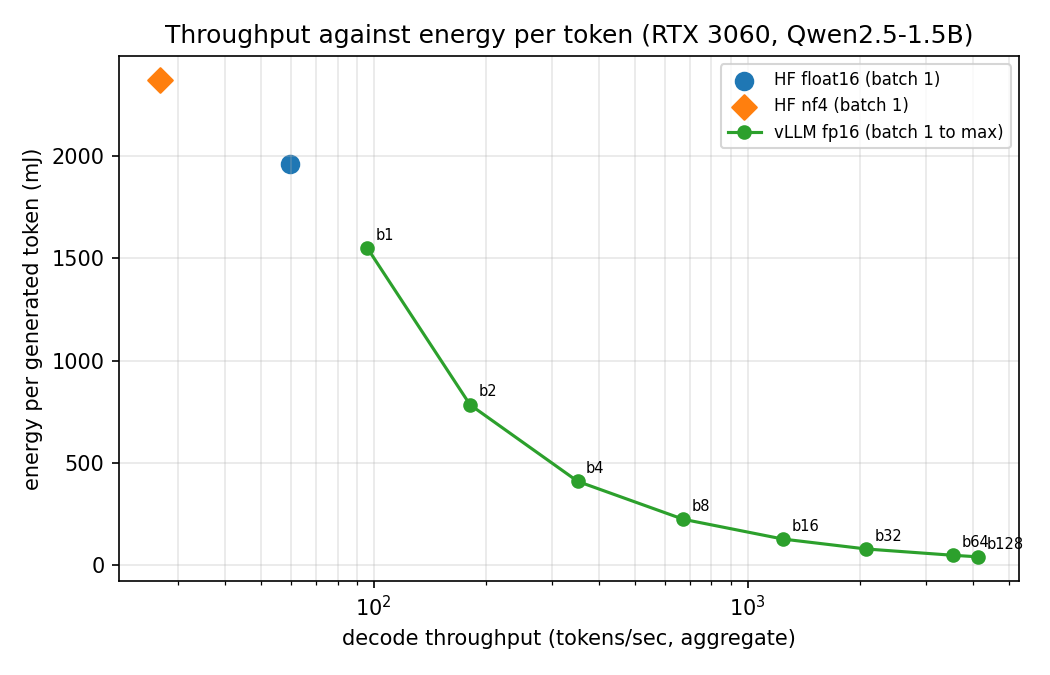
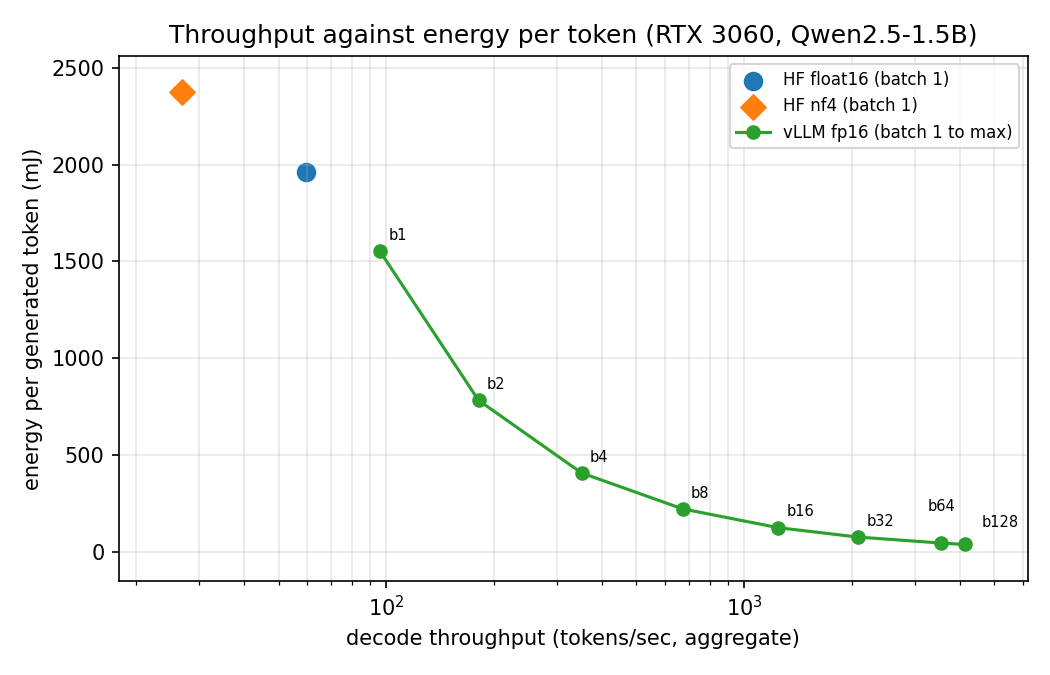
fix: separate energy plot labels

diff --git a/scripts/plot_energy.py b/scripts/plot_energy.py
@@ -83,15 +83,24 @@ def main() -> None:
         m = median_by(vl, ["batch_size"]).sort_values("batch_size")
         ax.plot(m.decode_tokens_per_sec, m.joules_per_token_gross * 1000,
                 "o-", color="C2", label="vLLM fp16 (batch 1 to max)")
+        label_offsets = {
+            64: (0, 14),
+            128: (8, 7),
+        }
         for _, row in m.iterrows():
+            batch = int(row.batch_size)
+            offset = label_offsets.get(batch, (4, 4))
             ax.annotate(f"b{int(row.batch_size)}",
                         (row.decode_tokens_per_sec,
                          row.joules_per_token_gross * 1000),
-                        textcoords="offset points", xytext=(4, 4), fontsize=7)
+                        textcoords="offset points", xytext=offset, fontsize=7,
+                        ha="center" if batch == 64 else "left",
+                        va="bottom")
     ax.set_xlabel("decode throughput (tokens/sec, aggregate)")
     ax.set_ylabel("energy per generated token (mJ)")
     ax.set_title("Throughput against energy per token (RTX 3060, Qwen2.5-1.5B)")
     ax.set_xscale("log")
+    ax.margins(x=0.08, y=0.08)
     ax.grid(True, alpha=0.3, which="both")
     ax.legend(fontsize=8)
     fig.tight_layout()
